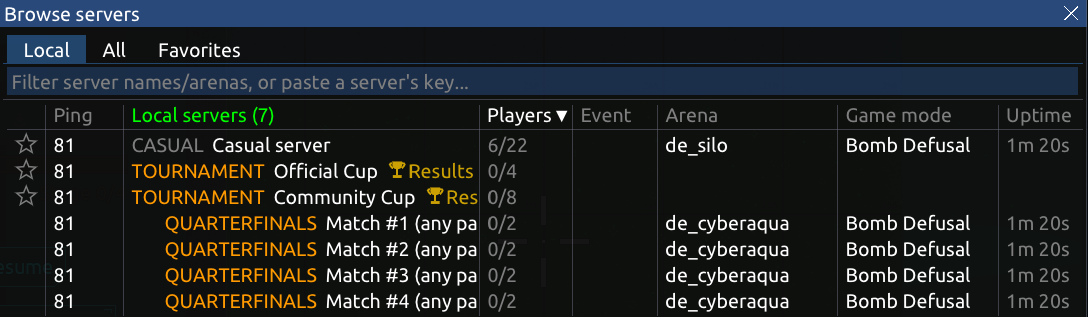
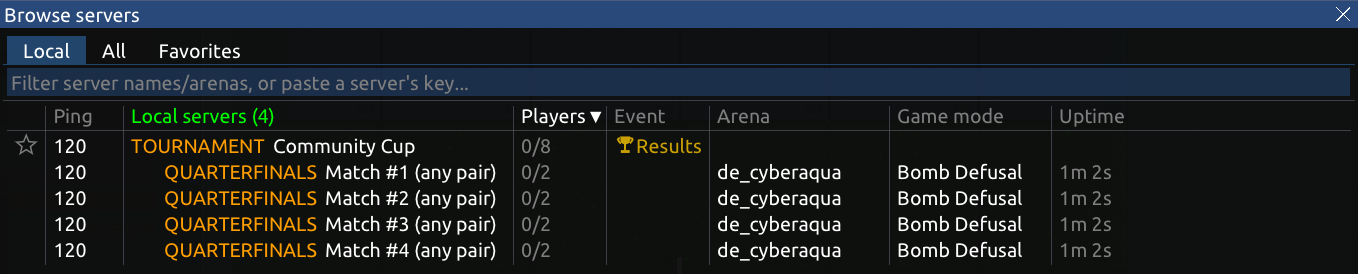
Server browser: one row per tournament, its matches' players summed; the Event column shows a tournament's trophy and "Results" whole. Links drawn by augs::imgui::text_link (underlined, hand cursor, URL tooltip) - the changelog's and the "host your 24/7 server" one. scenario_browser_tournaments.sh: 

Changed region(s): [[0.0, 0.0, 1.0, 0.9927]]

diff --git a/src/application/gui/browse_servers_gui.cpp b/src/application/gui/browse_servers_gui.cpp
@@ -8,6 +8,7 @@
 #include "application/main/favorite_servers.h"
 #include "application/gui/browse_servers_gui.h"
 #include "augs/misc/imgui/simple_popup.h"
+#include "augs/misc/imgui/text_link.h"
 #include "augs/misc/imgui/long_input_text_with_dots.h"
 #include "augs/misc/imgui/imgui_control_wrappers.h"
 #include "augs/misc/imgui/imgui_status_icons.h"
@@ -947,44 +948,7 @@ static void host_server_invitation_row() {
 		ImGui::TextUnformatted("Want to host your 24/7 server?");
 		ImGui::SameLine();
 
-		const auto link_col = rgba(130, 190, 255, 255);
-		const auto link_text = "Click here!";
-		const auto url = "https://hypersomnia.io/generator";
-		const auto pos = vec2(ImGui::GetCursorScreenPos());
-		const auto size = vec2(ImGui::CalcTextSize(link_text));
-		const auto draw_list = ImGui::GetWindowDrawList();
-
-		/*
-			A light rectangle behind it while hovered, stronger while held - drawn before the text, so under it.
-		*/
-
-		const auto pad = vec2(4, 1);
-		const auto rect_lt = ImVec2(pos - pad);
-		const auto rect_rb = ImVec2(pos + size + pad);
-
-		const bool hovered = ImGui::IsWindowHovered() && ImGui::IsMouseHoveringRect(rect_lt, rect_rb);
-
-		if (hovered) {
-			const auto rect_col = ImGui::IsMouseDown(0) ? ImGuiCol_HeaderActive : ImGuiCol_HeaderHovered;
-			draw_list->AddRectFilled(rect_lt, rect_rb, ImGui::GetColorU32(rect_col), 2.0f);
-		}
-
-		{
-			auto sc = scoped_text_color(link_col);
-			ImGui::TextUnformatted(link_text);
-		}
-
-		const auto underline_y = pos.y + size.y;
-		draw_list->AddLine(ImVec2(pos.x, underline_y), ImVec2(pos.x + size.x, underline_y), ImGui::GetColorU32(link_col));
-
-		if (hovered) {
-			ImGui::SetMouseCursor(ImGuiMouseCursor_Hand);
-			ImGui::SetTooltip("%s", url);
-
-			if (ImGui::IsMouseClicked(0)) {
-				augs::open_url(url);
-			}
-		}
+		augs::imgui::text_link("Click here!", "https://hypersomnia.io/generator", true);
 
 		ImGui::PopClipRect();
 	});
@@ -1557,9 +1521,37 @@ void browse_servers_gui_state::show_server_list(
 			return "Tournament " + ip;
 		}();
 
+		const auto row_clicked = ImGui::Selectable(name.c_str(), false, ImGuiSelectableFlags_SpanAllColumns | ImGuiSelectableFlags_AllowItemOverlap);
+		const bool row_hovered = ImGui::IsItemHovered();
+
+		ImGui::NextColumn();
+
+		{
+			auto online = 0;
+			auto max_online = 0;
+
+			for (const auto e : r.entries) {
+				if (e->details_known()) {
+					online += e->heartbeat.num_online;
+					max_online += e->heartbeat.max_online();
+				}
+			}
+
+			const auto players_text = typesafe_sprintf("%x/%x", online, max_online);
+
+			if (online == 0) {
+				text_disabled(players_text);
+			}
+			else {
+				text(players_text);
+			}
+		}
+
+		ImGui::NextColumn();
+
 		/*
-			Its results: the tournament's page, served by its host - opened in the browser, the row neither expanded
-			nor collapsed. Not on CrazyGames (no links out).
+			Its results in the Event column: the tournament's page, served by its host - opened in the browser, the row
+			neither expanded nor collapsed. Not on CrazyGames (no links out).
 		*/
 
 		bool results_hovered = false;
@@ -1570,12 +1562,7 @@ void browse_servers_gui_state::show_server_list(
 		const auto page_port = uint16_t(0);
 #endif
 
-		const auto row_clicked = ImGui::Selectable(name.c_str(), false, ImGuiSelectableFlags_SpanAllColumns | ImGuiSelectableFlags_AllowItemOverlap);
-		const bool row_hovered = ImGui::IsItemHovered();
-
 		if (page_port != 0) {
-			ImGui::SameLine();
-
 			/*
 				At the address a join goes to - on the local network its own, not the router's.
 			*/
@@ -1618,30 +1605,7 @@ void browse_servers_gui_state::show_server_list(
 			toggle(r);
 		}
 
-		ImGui::NextColumn();
-
-		{
-			auto online = 0;
-			auto max_online = 0;
-
-			for (const auto e : r.entries) {
-				if (e->details_known()) {
-					online += e->heartbeat.num_online;
-					max_online += e->heartbeat.max_online();
-				}
-			}
-
-			const auto players_text = typesafe_sprintf("%x/%x", online, max_online);
-
-			if (online == 0) {
-				text_disabled(players_text);
-			}
-			else {
-				text(players_text);
-			}
-		}
-
-		next_columns(num_columns - 3);
+		next_columns(num_columns - 4);
 	};
 
 	auto row_id = 0;
@@ -2294,7 +2258,15 @@ bool browse_servers_gui_state::perform(const browse_servers_input in) {
 		const float col_star = ImGui::GetTextLineHeight() + ImGui::GetStyle().ItemSpacing.x * 2;
 		float col_1 = ImGui::CalcTextSize("9999999").x;
 		float col_3 = ImGui::CalcTextSize("99h 99m 9").x;
-		float col_4 = ImGui::CalcTextSize("Players  9").x;
+
+		/*
+			The Event column: also a tournament's trophy and "Results", whole.
+		*/
+
+		float col_4 = std::max(
+			ImGui::CalcTextSize("Players  9").x,
+			ImGui::GetTextLineHeight() + ImGui::CalcTextSize("Results").x + ImGui::GetStyle().ItemSpacing.x * 2
+		);
 		float col_5 = ImGui::CalcTextSize("9").x * (max_arena_name_length_v / 2);
 		float col_6 = ImGui::CalcTextSize("Capture the flag 9").x;
 		float col_7 = ImGui::CalcTextSize("9").x * 25;

diff --git a/src/augs/misc/imgui/text_link.h b/src/augs/misc/imgui/text_link.h
@@ -1,0 +1,71 @@
+#pragma once
+#include <string>
+#include "augs/math/vec2.h"
+#include "augs/graphics/rgba.h"
+#include "augs/misc/imgui/imgui_scope_wrappers.h"
+#include "augs/window_framework/shell.h"
+
+namespace augs {
+	namespace imgui {
+		/*
+			Text drawn as a link: underlined, a hand and the url in a tooltip over it - a click opens it in the browser.
+			With highlight_on_hover, a light rectangle behind it while hovered, stronger while held.
+			On CrazyGames only its color: no links out of the game there.
+			Returns whether it was clicked.
+		*/
+
+		inline bool text_link(const std::string& label, const std::string& url, const bool highlight_on_hover = false) {
+			const auto link_col = rgba(130, 190, 255, 255);
+
+#if WEB_CRAZYGAMES
+			(void)url;
+			(void)highlight_on_hover;
+
+			auto sc = scoped_text_color(link_col);
+			ImGui::TextUnformatted(label.c_str());
+
+			return false;
+#else
+			const auto pos = vec2(ImGui::GetCursorScreenPos());
+			const auto size = vec2(ImGui::CalcTextSize(label.c_str()));
+			const auto draw_list = ImGui::GetWindowDrawList();
+
+			const auto pad = highlight_on_hover ? vec2(4, 1) : vec2::zero;
+			const auto rect_lt = ImVec2(pos - pad);
+			const auto rect_rb = ImVec2(pos + size + pad);
+
+			const bool hovered = ImGui::IsWindowHovered() && ImGui::IsMouseHoveringRect(rect_lt, rect_rb);
+
+			/*
+				Drawn before the text, so under it.
+			*/
+			if (hovered && highlight_on_hover) {
+				const auto rect_col = ImGui::IsMouseDown(0) ? ImGuiCol_HeaderActive : ImGuiCol_HeaderHovered;
+				draw_list->AddRectFilled(rect_lt, rect_rb, ImGui::GetColorU32(rect_col), 2.0f);
+			}
+
+			{
+				auto sc = scoped_text_color(link_col);
+				ImGui::TextUnformatted(label.c_str());
+			}
+
+			const auto underline_y = pos.y + size.y;
+			draw_list->AddLine(ImVec2(pos.x, underline_y), ImVec2(pos.x + size.x, underline_y), ImGui::GetColorU32(link_col));
+
+			if (!hovered) {
+				return false;
+			}
+
+			ImGui::SetMouseCursor(ImGuiMouseCursor_Hand);
+			ImGui::SetTooltip("%s", url.c_str());
+
+			if (ImGui::IsMouseClicked(0)) {
+				augs::open_url(url);
+				return true;
+			}
+
+			return false;
+#endif
+		}
+	}
+}

diff --git a/src/application/gui/changelog_gui.cpp b/src/application/gui/changelog_gui.cpp
@@ -2,6 +2,7 @@
 #include <algorithm>
 #include "augs/misc/imgui/imgui_control_wrappers.h"
 #include "augs/misc/imgui/imgui_scope_wrappers.h"
+#include "augs/misc/imgui/text_link.h"
 #include "augs/misc/imgui/imgui_game_image.h"
 #include "augs/window_framework/shell.h"
 #include "augs/misc/date_time.h"
@@ -147,37 +148,9 @@ static void draw_token(const std::string& token, const augs::markdown_span& span
 
 	switch (span.style) {
 		case augs::markdown_span_style::LINK: {
-			/*
-				Underlined, a hand over it - a click opens it in the browser.
-				On CrazyGames only its color: no links out of the game there.
-			*/
-
-			const auto link_col = rgba(130, 190, 255, 255);
-			const auto pos = vec2(ImGui::GetCursorScreenPos());
-
-			{
-				auto sc = scoped_text_color(link_col);
-				ImGui::TextUnformatted(token.c_str());
-			}
-
-#if !WEB_CRAZYGAMES
-			const auto size = vec2(ImGui::CalcTextSize(token.c_str()));
-			const auto underline_y = pos.y + size.y;
-			draw_list->AddLine(ImVec2(pos.x, underline_y), ImVec2(pos.x + size.x, underline_y), ImGui::GetColorU32(link_col));
-
-			if (ImGui::IsItemHovered()) {
-				ImGui::SetMouseCursor(ImGuiMouseCursor_Hand);
-				ImGui::SetTooltip("%s", span.url.c_str());
-			}
-
-			if (ImGui::IsItemClicked()) {
+			if (augs::imgui::text_link(token, span.url)) {
 				link_clicked = true;
-				augs::open_url(span.url);
 			}
-#else
-			(void)pos;
-			(void)draw_list;
-#endif
 
 			break;
 		}
